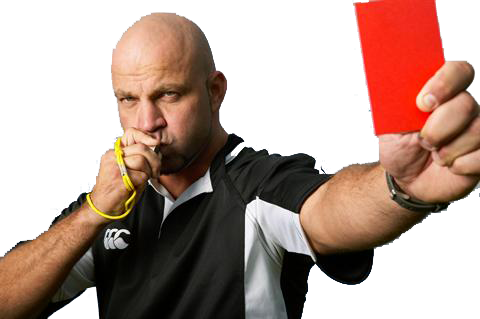
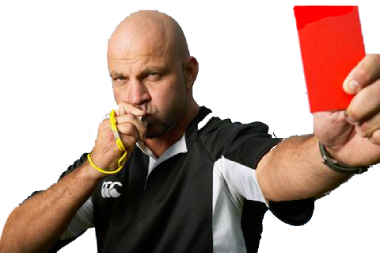
Att cor do cartão e adicionado tela de game over

diff --git a/jogo.py b/jogo.py
@@ -20,13 +20,13 @@ juiz = pygame.image.load("assets/cartao-vermelho.png")
 apitoSound = pygame.mixer.Sound("assets/apito.mp3")
 cartaovPosicaoX = largura*0.40
 cartaovPosicaoY = altura*0.81
+vermelhoPosicaoX = largura*0.54
+vermelhoPosicaoY = altura/1.7
 
 
 apitoSound.set_volume(0.2)
 def mostraVermelho(x, y):
     gameDisplay.blit(juiz,(x,y))
-    pygame.display.update(juiz(x,y))
-    dead()
 def mostraJogador(x, y):
     gameDisplay.blit(jogador, (x, y))
 def mostracartao(x, y):
@@ -47,26 +47,31 @@ def escreverPlacar(contador):
     texto = fonte.render("Pontos: "+str(contador), True, white)
     gameDisplay.blit(texto, (10, 10))
 def dead():
+    mostraVermelho(vermelhoPosicaoX, vermelhoPosicaoY)
+    pygame.display.update()
     pygame.mixer.Sound.play(apitoSound)
     pygame.mixer.music.stop()
     escreverTela("Você foi expulso!")
-     
+       
 def game():
     pygame.mixer.music.load("assets/futebol_som.mp3")
     pygame.mixer.music.set_volume(0.2)
     pygame.mixer.music.play(-1)
     jogadorPosicaoX = largura*0.40
     jogadorPosicaoY = altura*0.81
+    
+
     movimentoX = 0
     velocidade = 10
     cartaoAltura = 86
-    cartaoLargura = 85
-    cartaoVelocidade = 2
+    cartaoLargura = 65
+    cartaoVelocidade = 3
     cartaoX = random.randrange(0, largura)
     cartaoY = -200
     desvios = 0
     
     while True:
+        
         # pega as ações da tela. Ex.: fechar, click de uma tecla ou do mouse
         acoes = pygame.event.get()  # devolve uma lista de ações
         keys = pygame.key.get_pressed()                  
@@ -74,6 +79,7 @@ def game():
             jogadorPosicaoX -= velocidade          
         if keys[pygame.K_RIGHT] and jogadorPosicaoX < 1400 - velocidade - jogadorPosicaoX:               
             jogadorPosicaoX += velocidade
+
         # [ini] mapeando as ações
         for acao in acoes:
             if acao.type == pygame.QUIT:
@@ -87,10 +93,12 @@ def game():
             if acao.type == pygame.KEYUP:
                 movimentoX = 0
         # [end] mapeando as ações
+
         # definindo o fundo do game
         gameDisplay.fill(white)
         gameDisplay.blit(fundo, (0, 0))
         # definindo o fundo do game]
+
         escreverPlacar(desvios)
         cartaoY = cartaoY + cartaoVelocidade
         mostracartao(cartaoX, cartaoY)
@@ -105,13 +113,13 @@ def game():
             jogadorPosicaoX = 0
         elif jogadorPosicaoX > largura-largurajogador:
             jogadorPosicaoX = largura-largurajogador
+
         # analise de colisão com o jogador
         if jogadorPosicaoY < cartaoY + cartaoAltura:
+            
             if jogadorPosicaoX < cartaoX and jogadorPosicaoX+largurajogador > cartaoX or cartaoX+cartaoLargura > jogadorPosicaoX and cartaoX+cartaoLargura < jogadorPosicaoX+largurajogador:
                 dead()
-            
-                
-                
+           
         # analise de colisão com o jogador
         mostraJogador(jogadorPosicaoX, jogadorPosicaoY)
         pygame.display.update()
